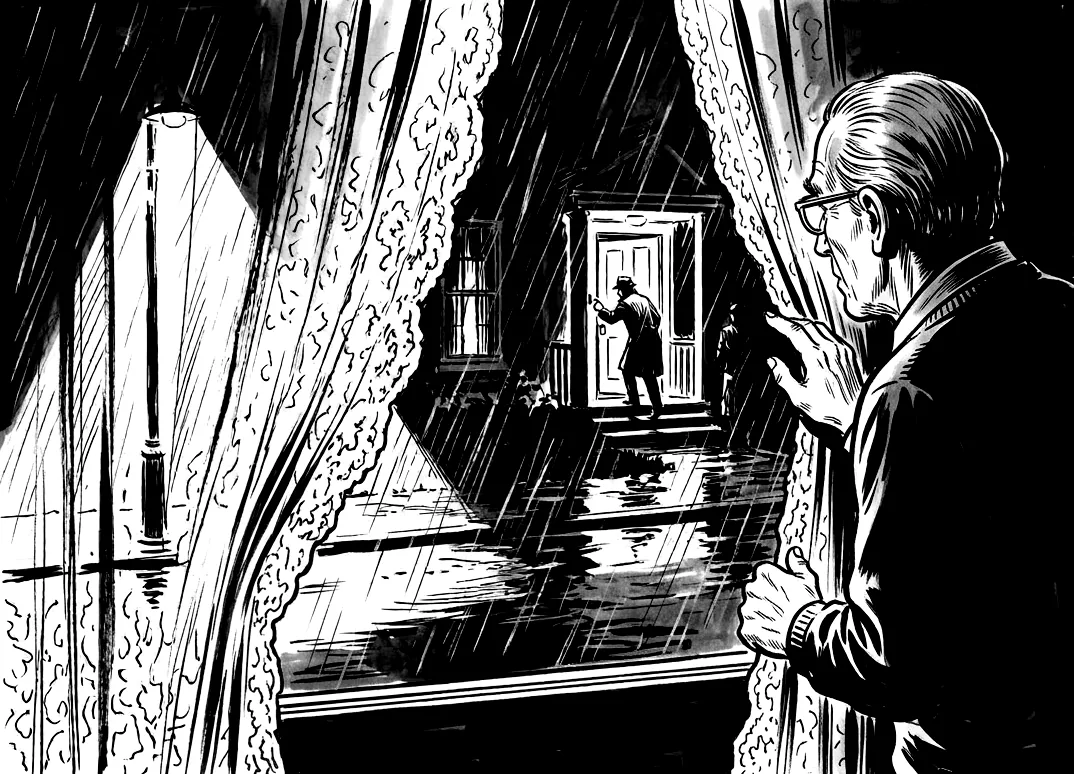
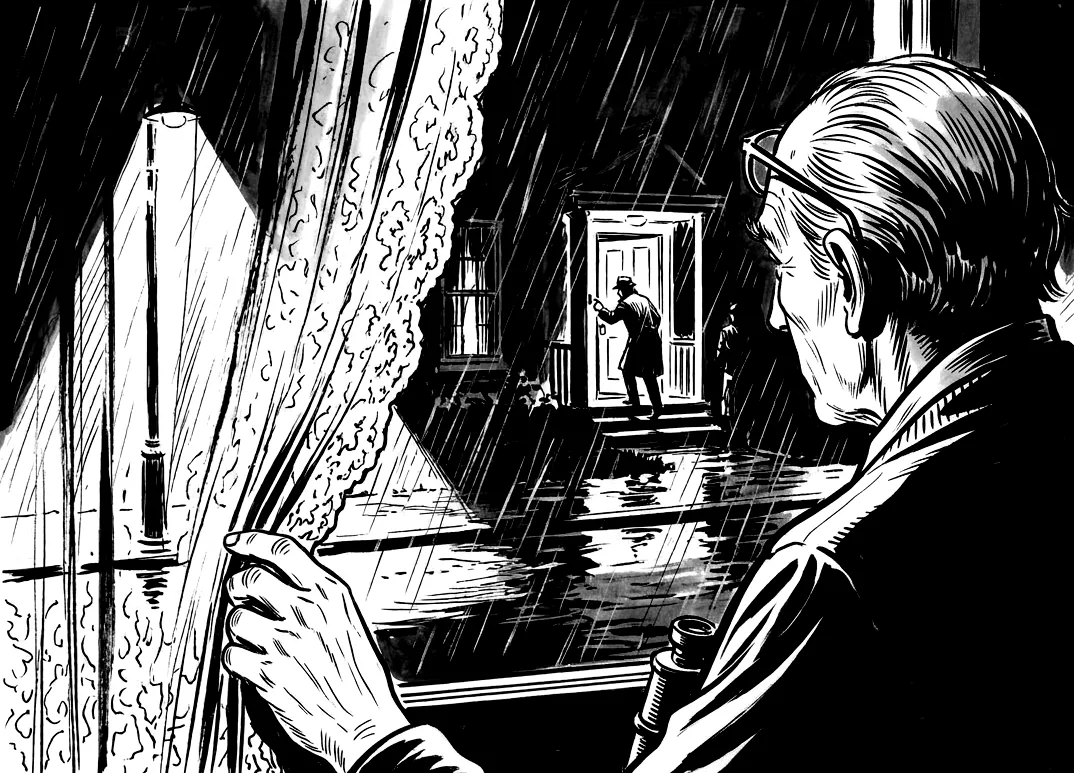
Ny nattbild för fönstertittaren (man)
Claude-Session: https://claude.ai/code/session_01X82C4BNK6EAMjc8zCm3VXK

diff --git a/src/scenes/sceneImages.js b/src/scenes/sceneImages.js
@@ -84,7 +84,7 @@ export const SCENE_IMAGES = /** @type {const} */ ({
   nightTaxiDriverWoman: { src: nightTaxiDriverWoman, alt: 'En taxichaufför i skärmmössa sitter vid ratten och ser en gestalt i hatt gå ensam på en regnig gata.', position: '50% 50%' },
   nightTaxiDriverMan: { src: nightTaxiDriverMan, alt: 'En taxichaufför i keps sitter vid ratten och ser en gestalt i hatt gå ensam på en regnig gata. Hans ögon syns i backspegeln.', position: '50% 50%' },
   nightWindowWatcherWoman: { src: nightWindowWatcherWoman, alt: 'En kvinna med papiljotter bakom en gardin ser genom fönstret hur en man i hatt går fram till en upplyst dörr i regnet.', position: '60% 50%' },
-  nightWindowWatcherMan: { src: nightWindowWatcherMan, alt: 'En äldre man med glasögon bakom en gardin ser genom fönstret hur en man i hatt går fram till en upplyst dörr i regnet.', position: '70% 50%' },
+  nightWindowWatcherMan: { src: nightWindowWatcherMan, alt: 'En äldre man med glasögon och en kikare i handen ser bakom en gardin hur en man i hatt går fram till en upplyst dörr i regnet.', position: '60% 50%' },
   nightBartenderWoman: { src: nightBartenderWoman, alt: 'En bartender häller upp en drink åt en ensam gäst i hatt som sitter hopsjunken vid bardisken.', position: '25% 50%' },
   nightBartenderMan: { src: nightBartenderMan, alt: 'En bartender häller upp en drink åt en ensam gäst i hatt som sitter hopsjunken vid bardisken.', position: '50% 50%' },
   nightSausageVendorWoman: { src: nightSausageVendorWoman, alt: 'En korvvagn under en gatlykta i regnet. En korvgumma räcker en korv till en man i hatt.', position: '50% 50%' },
